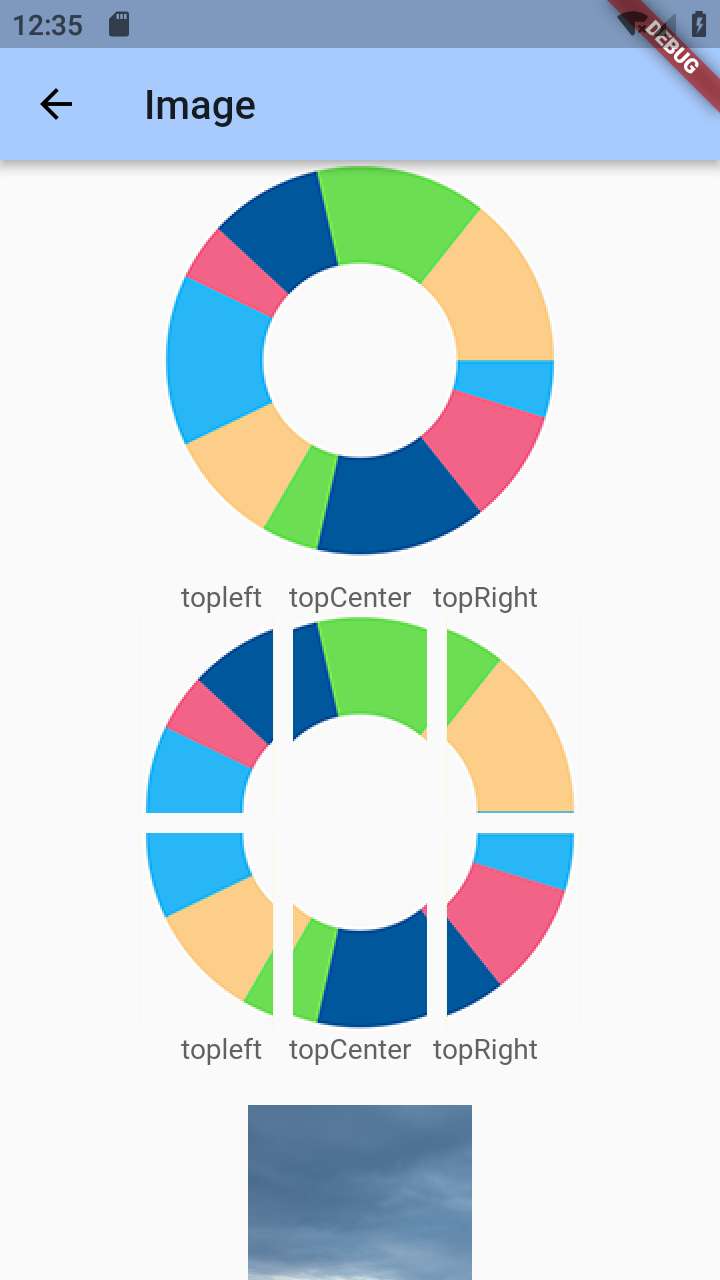
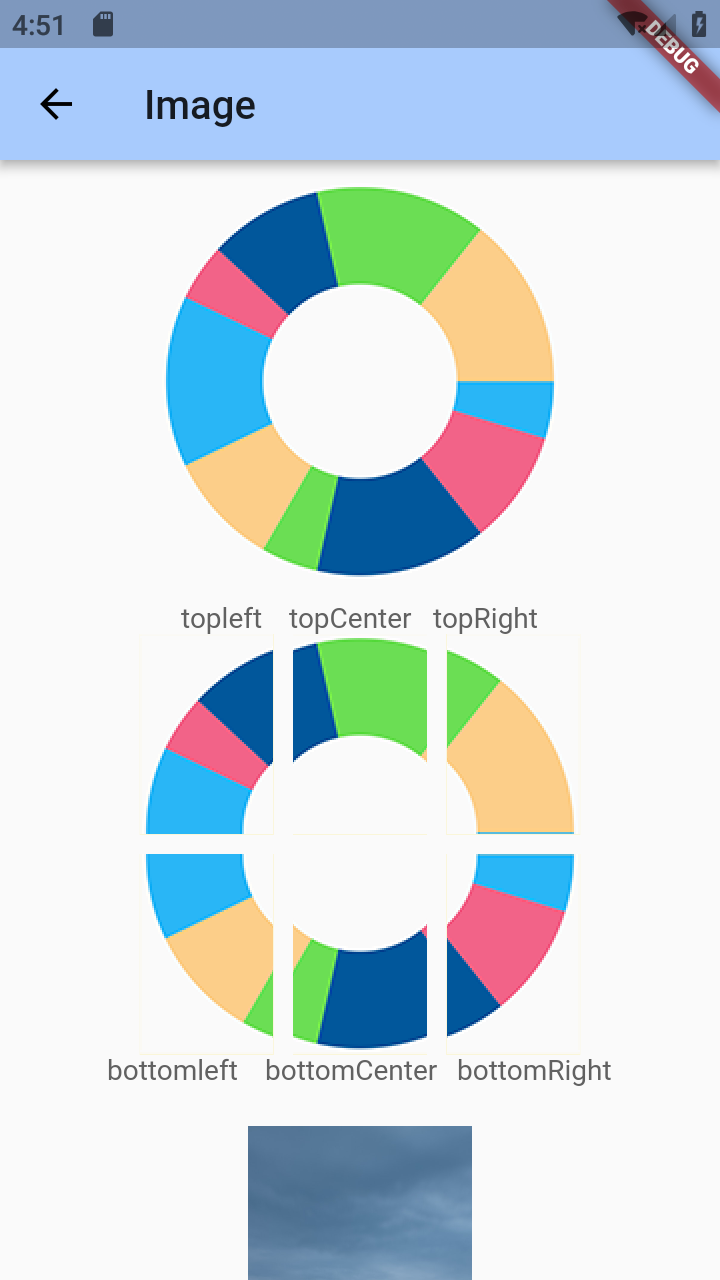
comply the image.

diff --git a/lib/page/img/image_page.dart b/lib/page/img/image_page.dart
@@ -441,11 +441,11 @@ class _ImageState extends State<ImagePage> {
           Row(
             mainAxisAlignment: MainAxisAlignment.center,
             children: <Widget>[
-              Text("topleft ", style: TextStyle(color: Colors.grey[700])),
+              Text("bottomleft ", style: TextStyle(color: Colors.grey[700])),
               SizedBox(width: 10),
-              Text("topCenter", style: TextStyle(color: Colors.grey[700])),
+              Text("bottomCenter", style: TextStyle(color: Colors.grey[700])),
               SizedBox(width: 10),
-              Text("topRight", style: TextStyle(color: Colors.grey[700]))
+              Text("bottomRight", style: TextStyle(color: Colors.grey[700]))
             ],
           ),
           SizedBox(height: 20),
